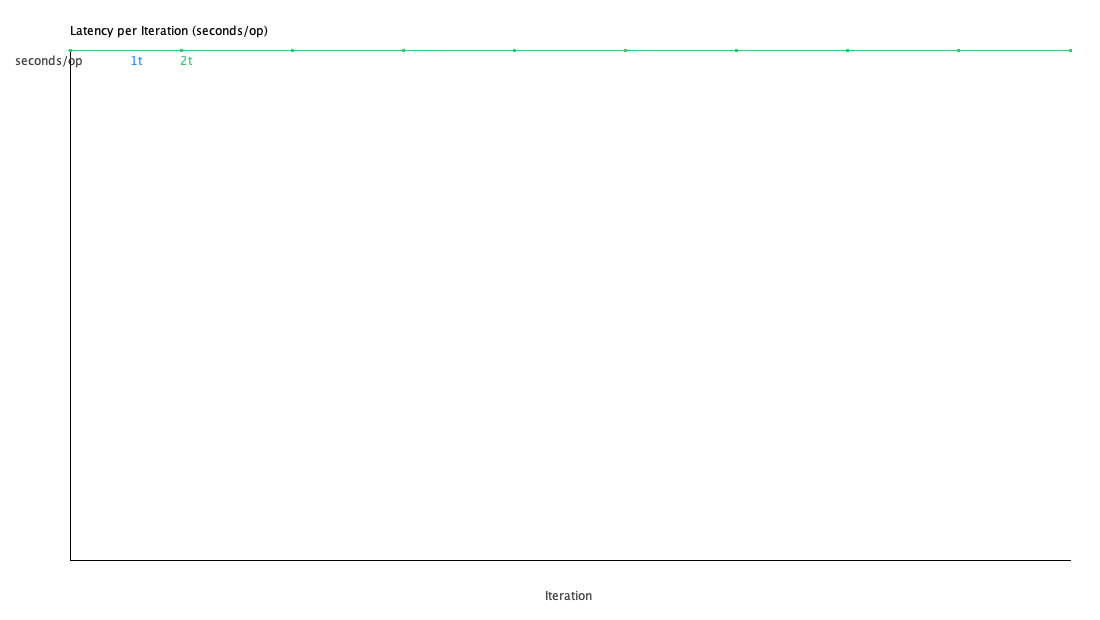
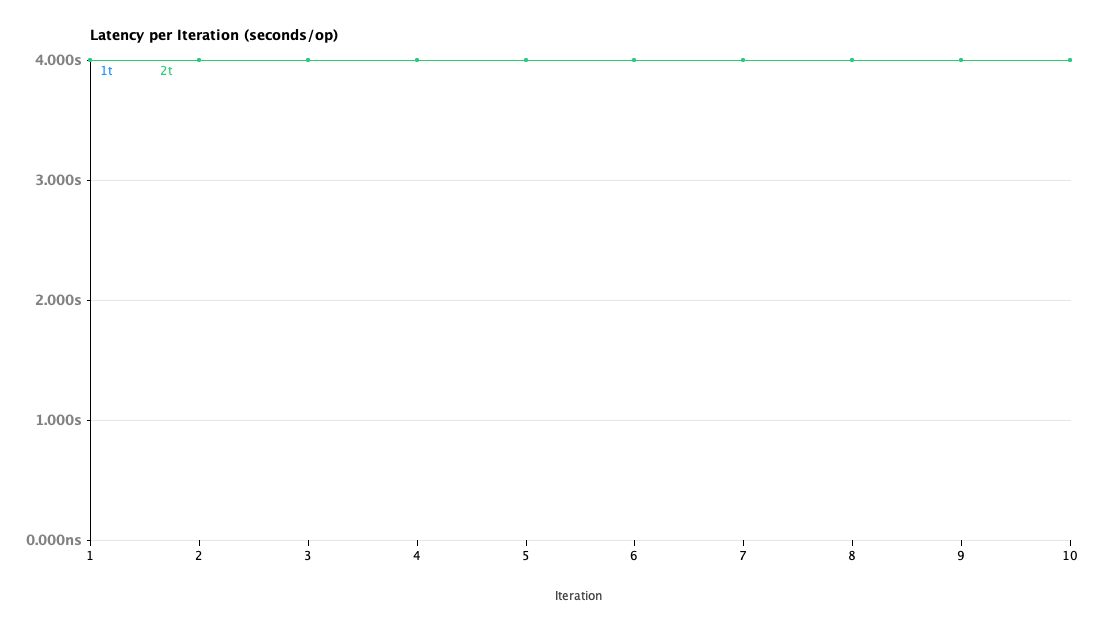
Plot reformat and images

diff --git a/indexing/src/main/java/com/tahs/analysis/PlotIndexingBench.java b/indexing/src/main/java/com/tahs/analysis/PlotIndexingBench.java
@@ -122,130 +122,276 @@ public class PlotIndexingBench {
         Files.writeString(csv, out, StandardCharsets.UTF_8);
     }
 
-    // --- Plots ---
+    static void enableAA(Graphics2D g) {
+        g.setRenderingHint(RenderingHints.KEY_ANTIALIASING, RenderingHints.VALUE_ANTIALIAS_ON);
+        g.setRenderingHint(RenderingHints.KEY_TEXT_ANTIALIASING, RenderingHints.VALUE_TEXT_ANTIALIAS_ON);
+    }
+
+    static String fmtOps(double v) {
+        double abs = Math.abs(v);
+        if (abs >= 1_000_000_000) return String.format(Locale.ROOT, "%.2fG", v / 1_000_000_000d);
+        if (abs >= 1_000_000)     return String.format(Locale.ROOT, "%.2fM", v / 1_000_000d);
+        if (abs >= 1_000)         return String.format(Locale.ROOT, "%.2fk", v / 1_000d);
+        return String.format(Locale.ROOT, "%.0f", v);
+    }
+
+    static String fmtSeconds(double s) {
+        if (s >= 1)   return String.format(Locale.ROOT, "%.3fs", s);
+        if (s >= 1e-3) return String.format(Locale.ROOT, "%.3fms", s * 1e3);
+        if (s >= 1e-6) return String.format(Locale.ROOT, "%.3fµs", s * 1e6);
+        return String.format(Locale.ROOT, "%.3fns", s * 1e9);
+    }
+
+    static double[] niceTicks(double min, double max, int maxTicks) {
+        if (Double.isNaN(min) || Double.isNaN(max) || min == max) {
+            return new double[]{min, max, 1};
+        }
+        double range = niceNum(max - min, false);
+        double d = niceNum(range / (maxTicks - 1), true);
+        double niceMin = Math.floor(min / d) * d;
+        double niceMax = Math.ceil(max / d) * d;
+        return new double[]{niceMin, niceMax, d};
+    }
+
+    static double niceNum(double x, boolean round) {
+        double exp = Math.floor(Math.log10(x));
+        double f = x / Math.pow(10, exp);
+        double nf;
+        if (round) {
+            if (f < 1.5) nf = 1;
+            else if (f < 3) nf = 2;
+            else if (f < 7) nf = 5;
+            else nf = 10;
+        } else {
+            if (f <= 1) nf = 1;
+            else if (f <= 2) nf = 2;
+            else if (f <= 5) nf = 5;
+            else nf = 10;
+        }
+        return nf * Math.pow(10, exp);
+    }
+
+    static void drawYAxis(Graphics2D g, int l, int t, int plotW, int plotH,
+                          double minY, double maxY, int ticks, boolean opsUnit) {
+        g.setColor(Color.BLACK);
+        g.drawLine(l, t, l, t + plotH);
+        g.drawLine(l, t + plotH, l + plotW, t + plotH);
+
+        double[] nt = niceTicks(minY, maxY, Math.max(3, ticks));
+        double y0 = nt[0], y1 = nt[1], step = nt[2];
+
+        FontMetrics fm = g.getFontMetrics();
+        for (double v = y0; v <= y1 + 1e-12; v += step) {
+            int y = t + (int) Math.round((1.0 - (v - y0) / (y1 - y0)) * plotH);
+            g.setColor(new Color(230, 230, 230));
+            g.drawLine(l, y, l + plotW, y);
+            g.setColor(Color.GRAY);
+            String label = opsUnit ? fmtOps(v) : fmtSeconds(v);
+            int w = fm.stringWidth(label);
+            g.drawString(label, l - 8 - w, y + fm.getAscent() / 2 - 2);
+            g.setColor(Color.BLACK);
+            g.drawLine(l - 3, y, l, y);
+        }
+    }
+
+    static int xForIndex(int i, int count, int l, int plotW) {
+        return l + (count <= 1 ? 0 : (int) Math.round(i * (plotW / (count - 1.0))));
+    }
 
     static void plotThroughputVsThreads(Map<Integer, Stats> agg, Path outPng) throws IOException {
-        int w = 960, h = 560, l = 70, r = 30, t = 50, b = 60;
+        int w = 960, h = 560, l = 80, r = 30, t = 60, b = 80;
+        int plotW = w - l - r, plotH = h - t - b;
+
         BufferedImage img = new BufferedImage(w, h, BufferedImage.TYPE_INT_RGB);
         Graphics2D g = img.createGraphics();
+        enableAA(g);
         g.setColor(Color.WHITE); g.fillRect(0, 0, w, h);
-        g.setColor(Color.BLACK); g.drawString("Throughput vs Threads (ops/s)", l, t - 15);
-        int plotW = w - l - r, plotH = h - t - b;
-        g.drawLine(l, h - b, l + plotW, h - b);
-        g.drawLine(l, h - b, l, t);
+
+        g.setColor(Color.BLACK);
+        g.setFont(g.getFont().deriveFont(Font.BOLD, 14f));
+        g.drawString("Throughput vs Threads (ops/s)", l, t - 20);
 
         List<Integer> xs = new ArrayList<>(agg.keySet());
         Collections.sort(xs);
         double maxY = agg.values().stream().mapToDouble(s -> s.mean).max().orElse(1.0);
-        if (maxY <= 0) maxY = 1.0;
+        double minY = 0;
 
-        g.setColor(Color.BLUE);
-        int prevX = -1, prevY = -1;
+        drawYAxis(g, l, t, plotW, plotH, minY, maxY, 6, true);
+
+        g.setFont(g.getFont().deriveFont(Font.PLAIN, 12f));
+        FontMetrics fm = g.getFontMetrics();
         for (int i = 0; i < xs.size(); i++) {
-            int thr = xs.get(i);
-            double mean = agg.get(thr).mean;
-            int x = l + (int) (i * (plotW / Math.max(1.0, xs.size() - 1.0)));
-            int y = t + (int) ((1.0 - mean / maxY) * plotH);
-            g.fillOval(x - 3, y - 3, 6, 6);
-            if (prevX >= 0) g.drawLine(prevX, prevY, x, y);
-            prevX = x; prevY = y;
+            int x = xForIndex(i, xs.size(), l, plotW);
+            g.setColor(Color.BLACK);
+            g.drawLine(x, t + plotH, x, t + plotH + 5);
+            String lbl = xs.get(i) + "";
+            int tw = fm.stringWidth(lbl);
+            g.drawString(lbl, x - tw / 2, t + plotH + fm.getAscent() + 8);
         }
         g.setColor(Color.DARK_GRAY);
         g.drawString("Threads", l + plotW / 2 - 20, h - 20);
-        g.drawString("ops/s", 15, t + 15);
+
+        g.setColor(new Color(30, 144, 255));
+        int prevX = -1, prevY = -1;
+        double[] nt = niceTicks(minY, maxY, 6);
+        double y0 = nt[0], y1 = nt[1];
+
+        for (int i = 0; i < xs.size(); i++) {
+            int thr = xs.get(i);
+            double mean = agg.get(thr).mean;
+            int x = xForIndex(i, xs.size(), l, plotW);
+            int y = t + (int) Math.round((1.0 - (mean - y0) / (y1 - y0)) * plotH);
+            g.fillOval(x - 3, y - 3, 6, 6);
+            if (prevX >= 0) g.drawLine(prevX, prevY, x, y);
+            prevX = x; prevY = y;
+
+            String vLabel = fmtOps(mean);
+            int vw = fm.stringWidth(vLabel);
+            g.drawString(vLabel, x - vw / 2, y - 8);
+        }
+
         ImageIO.write(img, "png", outPng.toFile());
         g.dispose();
     }
 
     static void plotThroughputIterations(Map<Integer, List<Row>> byThreads, Path outPng) throws IOException {
-        int w = 1100, h = 620, l = 70, r = 30, t = 50, b = 60;
+        int w = 1100, h = 620, l = 80, r = 30, t = 60, b = 80;
+        int plotW = w - l - r, plotH = h - t - b;
+
         BufferedImage img = new BufferedImage(w, h, BufferedImage.TYPE_INT_RGB);
         Graphics2D g = img.createGraphics();
+        enableAA(g);
         g.setColor(Color.WHITE); g.fillRect(0, 0, w, h);
-        g.setColor(Color.BLACK); g.drawString("Throughput per Iteration (ops/s)", l, t - 15);
-        int plotW = w - l - r, plotH = h - t - b;
-        g.drawLine(l, h - b, l + plotW, h - b);
-        g.drawLine(l, h - b, l, t);
 
-        int maxIter = byThreads.values().stream().mapToInt(list -> list.stream().mapToInt(row -> row.iteration).max().orElse(1)).max().orElse(1);
+        g.setColor(Color.BLACK);
+        g.setFont(g.getFont().deriveFont(Font.BOLD, 14f));
+        g.drawString("Throughput per Iteration (ops/s)", l, t - 20);
+
+        int maxIter = byThreads.values().stream()
+                .mapToInt(list -> list.stream().mapToInt(row -> row.iteration).max().orElse(1)).max().orElse(1);
         double maxY = byThreads.values().stream().flatMap(List::stream).mapToDouble(row -> row.value).max().orElse(1.0);
-        if (maxY <= 0) maxY = 1.0;
+        double minY = 0;
+
+        drawYAxis(g, l, t, plotW, plotH, minY, maxY, 6, true);
+
+        g.setFont(g.getFont().deriveFont(Font.PLAIN, 12f));
+        FontMetrics fm = g.getFontMetrics();
+        int xTicks = Math.min(10, Math.max(2, maxIter));
+        for (int i = 1; i <= maxIter; i++) {
+            int x = l + (int) Math.round((i - 1) * (plotW / Math.max(1.0, maxIter - 1.0)));
+            if ((i == 1) || (i == maxIter) || (i - 1) % Math.max(1, (maxIter - 1) / xTicks) == 0) {
+                g.setColor(Color.BLACK);
+                g.drawLine(x, t + plotH, x, t + plotH + 5);
+                String lbl = String.valueOf(i);
+                int tw = fm.stringWidth(lbl);
+                g.drawString(lbl, x - tw / 2, t + plotH + fm.getAscent() + 8);
+            }
+        }
+        g.setColor(Color.DARK_GRAY);
+        g.drawString("Iteration", l + plotW / 2 - 25, h - 20);
 
         Color[] colors = palette();
         int ci = 0;
+        double[] nt = niceTicks(minY, maxY, 6);
+        double y0 = nt[0], y1 = nt[1];
 
         for (var e : byThreads.entrySet()) {
             int thr = e.getKey();
             List<Row> list = e.getValue().stream().sorted(Comparator.comparingInt(row -> row.iteration)).toList();
-            g.setColor(colors[ci++ % colors.length]);
+            g.setColor(colors[ci % colors.length]);
             int prevX = -1, prevY = -1;
-            for (Row rrow : list) {
-                int x = l + (int) ((rrow.iteration - 1) * (plotW / Math.max(1.0, maxIter - 1.0)));
-                int y = t + (int) ((1.0 - rrow.value / maxY) * plotH);
+            for (Row rr : list) {
+                int x = l + (int) Math.round((rr.iteration - 1) * (plotW / Math.max(1.0, maxIter - 1.0)));
+                int y = t + (int) Math.round((1.0 - (rr.value - y0) / (y1 - y0)) * plotH);
                 g.fillOval(x - 2, y - 2, 4, 4);
                 if (prevX >= 0) g.drawLine(prevX, prevY, x, y);
                 prevX = x; prevY = y;
             }
-            g.drawString(thr + "t", l + 10 + (ci * 50) % (plotW - 50), t + 15 + 15 * ((ci * 50) / (plotW - 50)));
+            g.drawString(thr + "t", l + 10 + (ci * 60) % (plotW - 60), t + 15 + 16 * ((ci * 60) / (plotW - 60)));
+            ci++;
         }
-        g.setColor(Color.DARK_GRAY);
-        g.drawString("Iteration", l + plotW / 2 - 25, h - 20);
-        g.drawString("ops/s", 15, t + 15);
+
         ImageIO.write(img, "png", outPng.toFile());
         g.dispose();
     }
 
     static void plotLatencyIterations(Map<Integer, List<Row>> byThreads, Path outPng) throws IOException {
-        int w = 1100, h = 620, l = 70, r = 30, t = 50, b = 60;
+        int w = 1100, h = 620, l = 90, r = 30, t = 60, b = 80;
+        int plotW = w - l - r, plotH = h - t - b;
+
         BufferedImage img = new BufferedImage(w, h, BufferedImage.TYPE_INT_RGB);
         Graphics2D g = img.createGraphics();
+        enableAA(g);
         g.setColor(Color.WHITE); g.fillRect(0, 0, w, h);
-        g.setColor(Color.BLACK); g.drawString("Latency per Iteration (seconds/op)", l, t - 15);
-        int plotW = w - l - r, plotH = h - t - b;
-        g.drawLine(l, h - b, l + plotW, h - b);
-        g.drawLine(l, h - b, l, t);
 
-        int maxIter = byThreads.values().stream().mapToInt(list -> list.stream().mapToInt(row -> row.iteration).max().orElse(1)).max().orElse(1);
+        g.setColor(Color.BLACK);
+        g.setFont(g.getFont().deriveFont(Font.BOLD, 14f));
+        g.drawString("Latency per Iteration (seconds/op)", l, t - 20);
+
+        int maxIter = byThreads.values().stream()
+                .mapToInt(list -> list.stream().mapToInt(row -> row.iteration).max().orElse(1)).max().orElse(1);
         double maxY = byThreads.values().stream()
                 .flatMap(List::stream)
                 .mapToDouble(row -> toSecondsPerOp(row.value, row.unit))
                 .max().orElse(1.0);
-        if (maxY <= 0) maxY = 1.0;
+        double minY = 0;
+
+        drawYAxis(g, l, t, plotW, plotH, minY, maxY, 6, false);
+
+        g.setFont(g.getFont().deriveFont(Font.PLAIN, 12f));
+        FontMetrics fm = g.getFontMetrics();
+        int xTicks = Math.min(10, Math.max(2, maxIter));
+        for (int i = 1; i <= maxIter; i++) {
+            int x = l + (int) Math.round((i - 1) * (plotW / Math.max(1.0, maxIter - 1.0)));
+            if ((i == 1) || (i == maxIter) || (i - 1) % Math.max(1, (maxIter - 1) / xTicks) == 0) {
+                g.setColor(Color.BLACK);
+                g.drawLine(x, t + plotH, x, t + plotH + 5);
+                String lbl = String.valueOf(i);
+                int tw = fm.stringWidth(lbl);
+                g.drawString(lbl, x - tw / 2, t + plotH + fm.getAscent() + 8);
+            }
+        }
+        g.setColor(Color.DARK_GRAY);
+        g.drawString("Iteration", l + plotW / 2 - 25, h - 20);
 
         Color[] colors = palette();
         int ci = 0;
+        double[] nt = niceTicks(minY, maxY, 6);
+        double y0 = nt[0], y1 = nt[1];
 
         for (var e : byThreads.entrySet()) {
             int thr = e.getKey();
             List<Row> list = e.getValue().stream().sorted(Comparator.comparingInt(row -> row.iteration)).toList();
-            g.setColor(colors[ci++ % colors.length]);
+            g.setColor(colors[ci % colors.length]);
             int prevX = -1, prevY = -1;
-            for (Row rrow : list) {
-                double sec = toSecondsPerOp(rrow.value, rrow.unit);
-                int x = l + (int) ((rrow.iteration - 1) * (plotW / Math.max(1.0, maxIter - 1.0)));
-                int y = t + (int) ((1.0 - sec / maxY) * plotH);
+            for (Row rr : list) {
+                double sec = toSecondsPerOp(rr.value, rr.unit);
+                int x = l + (int) Math.round((rr.iteration - 1) * (plotW / Math.max(1.0, maxIter - 1.0)));
+                int y = t + (int) Math.round((1.0 - (sec - y0) / (y1 - y0)) * plotH);
                 g.fillOval(x - 2, y - 2, 4, 4);
                 if (prevX >= 0) g.drawLine(prevX, prevY, x, y);
                 prevX = x; prevY = y;
             }
-            g.drawString(thr + "t", l + 10 + (ci * 50) % (plotW - 50), t + 15 + 15 * ((ci * 50) / (plotW - 50)));
+            g.drawString(thr + "t", l + 10 + (ci * 60) % (plotW - 60), t + 15 + 16 * ((ci * 60) / (plotW - 60)));
+            ci++;
         }
-        g.setColor(Color.DARK_GRAY);
-        g.drawString("Iteration", l + plotW / 2 - 25, h - 20);
-        g.drawString("seconds/op", 15, t + 15);
+
         ImageIO.write(img, "png", outPng.toFile());
         g.dispose();
     }
 
     static void plotLatencyHistogram(double[] sec, Path outPng) throws IOException {
-        int w = 960, h = 560, l = 70, r = 30, t = 50, b = 60;
+        int w = 960, h = 560, l = 90, r = 30, t = 60, b = 80;
+        int plotW = w - l - r, plotH = h - t - b;
+
         BufferedImage img = new BufferedImage(w, h, BufferedImage.TYPE_INT_RGB);
         Graphics2D g = img.createGraphics();
+        enableAA(g);
         g.setColor(Color.WHITE); g.fillRect(0, 0, w, h);
-        g.setColor(Color.BLACK); g.drawString("Latency Distribution (seconds/op)", l, t - 15);
-        int plotW = w - l - r, plotH = h - t - b;
-        g.drawLine(l, h - b, l + plotW, h - b);
-        g.drawLine(l, h - b, l, t);
+
+        g.setColor(Color.BLACK);
+        g.setFont(g.getFont().deriveFont(Font.BOLD, 14f));
+        g.drawString("Latency Distribution", l, t - 20);
 
         if (sec.length == 0) {
             ImageIO.write(img, "png", outPng.toFile()); g.dispose(); return;
@@ -263,19 +409,62 @@ public class PlotIndexingBench {
         }
         int maxCount = Arrays.stream(counts).max().orElse(1);
 
+        drawYAxisCounts(g, l, t, plotW, plotH, 0, maxCount, 6);
+
+        g.setFont(g.getFont().deriveFont(Font.PLAIN, 12f));
+        FontMetrics fm = g.getFontMetrics();
+        double[] ntX = niceTicks(0, max, 6);
+        for (double v = ntX[0]; v <= ntX[1] + 1e-12; v += ntX[2]) {
+            int x = l + (int) Math.round(((v - ntX[0]) / (ntX[1] - ntX[0])) * plotW);
+            g.setColor(Color.LIGHT_GRAY);
+            g.drawLine(x, t, x, t + plotH);
+            g.setColor(Color.BLACK);
+            g.drawLine(x, t + plotH, x, t + plotH + 5);
+            String lbl = fmtSeconds(v);
+            int tw = fm.stringWidth(lbl);
+            g.drawString(lbl, x - tw / 2, t + plotH + fm.getAscent() + 8);
+        }
+
         int barW = Math.max(1, plotW / bins);
         for (int i = 0; i < bins; i++) {
             int hBar = (int) Math.round((counts[i] / (double) maxCount) * plotH);
             int x = l + i * barW;
-            int y = h - b - hBar;
+            int y = t + plotH - hBar;
             g.setColor(new Color(255, 160, 0));
             g.fillRect(x, y, Math.max(1, barW - 1), hBar);
         }
+
         g.setColor(Color.DARK_GRAY);
-        g.drawString("seconds/op", l + plotW / 2 - 30, h - 20);
-        g.drawString("count", 20, t + 15);
+        g.drawString("Latency", l + plotW / 2 - 25, h - 20);
+        g.rotate(-Math.PI / 2);
+        g.drawString("Count", -(t + plotH / 2 + 15), 20);
+        g.rotate(Math.PI / 2);
+
         ImageIO.write(img, "png", outPng.toFile());
         g.dispose();
+    }
+
+    static void drawYAxisCounts(Graphics2D g, int l, int t, int plotW, int plotH,
+                                int minC, int maxC, int ticks) {
+        g.setColor(Color.BLACK);
+        g.drawLine(l, t, l, t + plotH);
+        g.drawLine(l, t + plotH, l + plotW, t + plotH);
+
+        double[] nt = niceTicks(minC, maxC, Math.max(3, ticks));
+        double y0 = nt[0], y1 = nt[1], step = nt[2];
+
+        FontMetrics fm = g.getFontMetrics();
+        for (double v = y0; v <= y1 + 1e-12; v += step) {
+            int y = t + (int) Math.round((1.0 - (v - y0) / (y1 - y0)) * plotH);
+            g.setColor(new Color(230, 230, 230));
+            g.drawLine(l, y, l + plotW, y);
+            g.setColor(Color.GRAY);
+            String label = String.valueOf((int) Math.round(v));
+            int w = fm.stringWidth(label);
+            g.drawString(label, l - 8 - w, y + fm.getAscent() / 2 - 2);
+            g.setColor(Color.BLACK);
+            g.drawLine(l - 3, y, l, y);
+        }
     }
 
     static double toSecondsPerOp(double value, String unit) {
